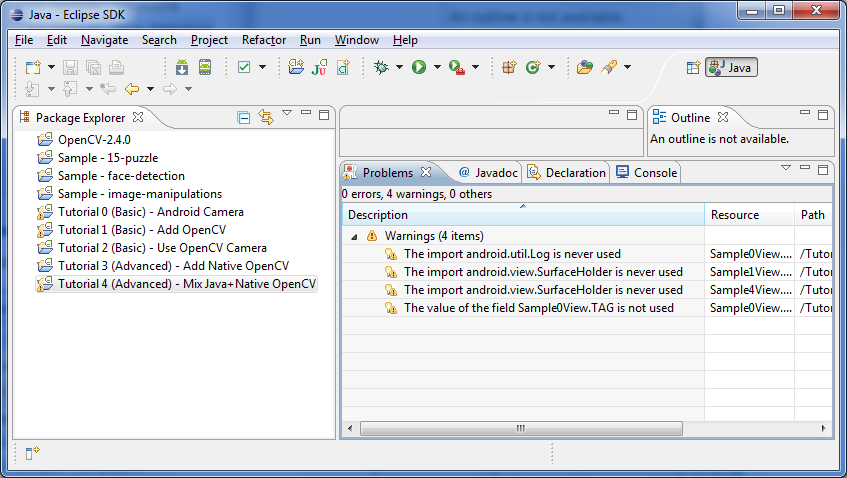
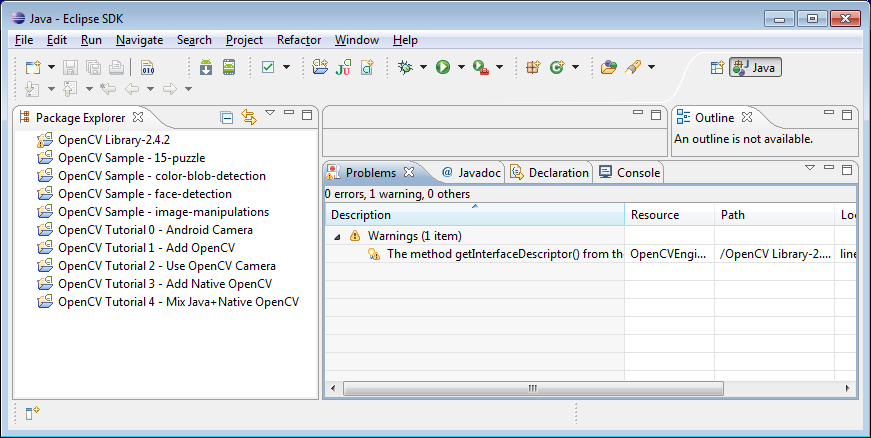
updating pictures; removing redundant 'fix prj prop-s' step
git-svn-id: file://localhost/home/tolik/svnrepo/branches/2.4@8944 c5418bc3-7546-4aae-8bad-fa6f2f3e53e6

diff --git a/opencv/doc/tutorials/introduction/android_binary_package/android_binary_package.rst b/opencv/doc/tutorials/introduction/android_binary_package/android_binary_package.rst
@@ -250,6 +250,8 @@ Open OpenCV library and samples in Eclipse
    However **all these errors are only false-alarms**!
 
    To help Eclipse to understand that there are no any errors choose OpenCV library in :guilabel:`Package Explorer` (left mouse click) and press :kbd:`F5` button on your keyboard. Then choose any sample (except first samples in *Tutorial Base* and *Tutorial Advanced*) and also press :kbd:`F5`.
+   
+   In some cases these errors disappear after :menuselection:`Project --> Clean... --> Clean all --> OK`.
 
    Sometimes more advanced manipulations are needed:
 
@@ -257,12 +259,6 @@ Open OpenCV library and samples in Eclipse
 
       .. image:: images/eclipse_8a_target.png
          :alt: Updating target
-         :align: center
-
-   * Sometimes a project needs fixing its project properties. After right click on any project select  :guilabel:`Android Tools` and then :guilabel:`Fix Project Properties` in sub-menu:
-
-      .. image:: images/eclipse_8b_fix_props.png
-         :alt: Fixing project properties
          :align: center
 
    After this manipulation Eclipse will rebuild your workspace and error icons will disappear one after another:
